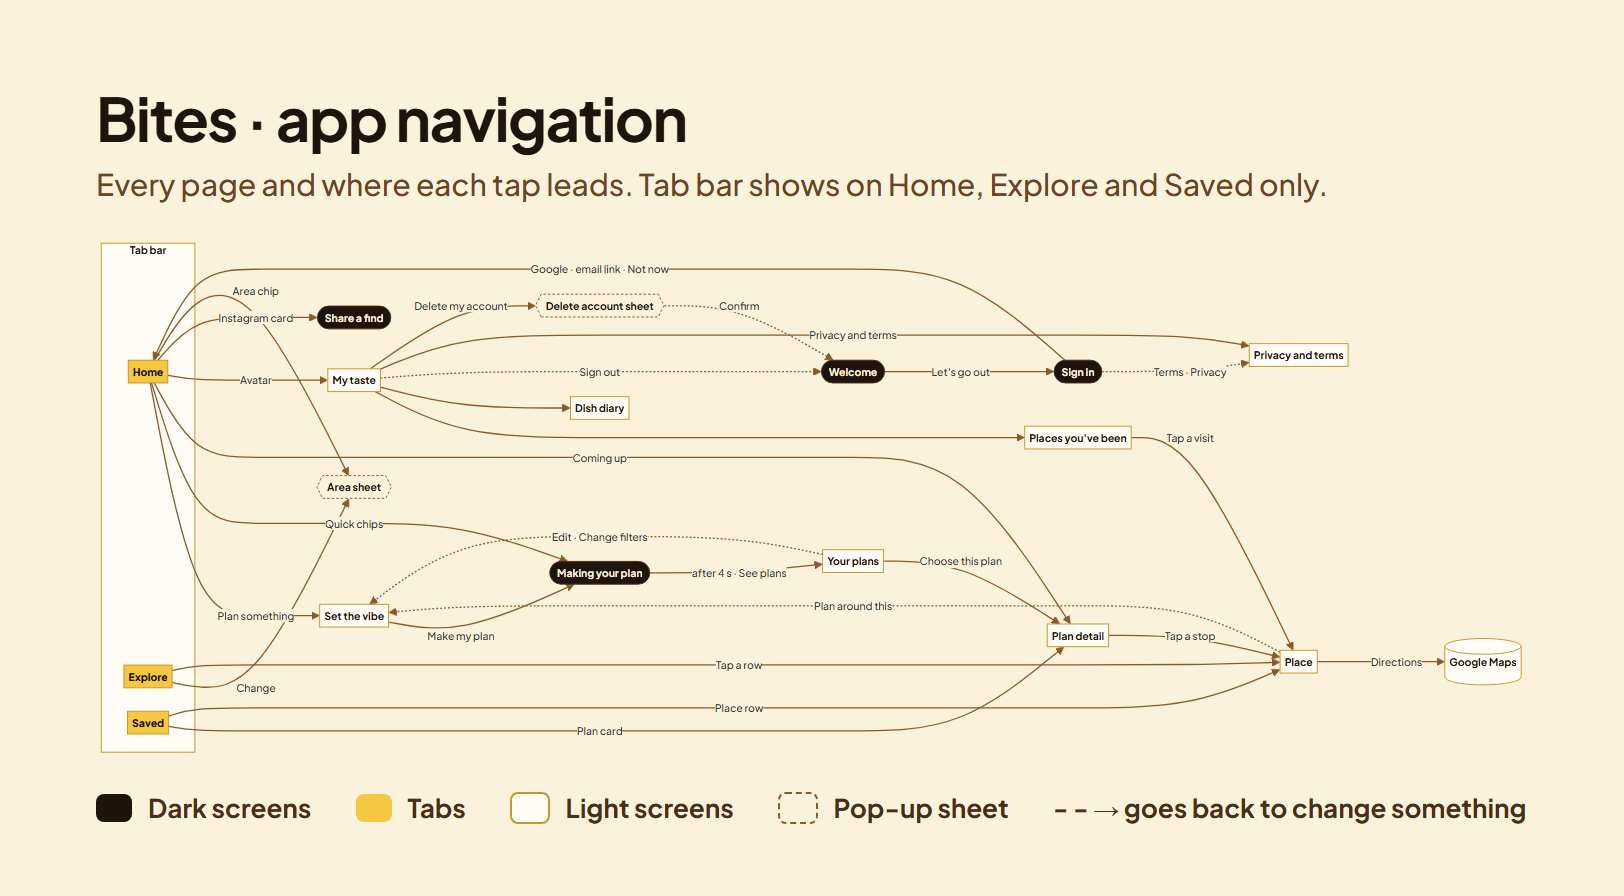
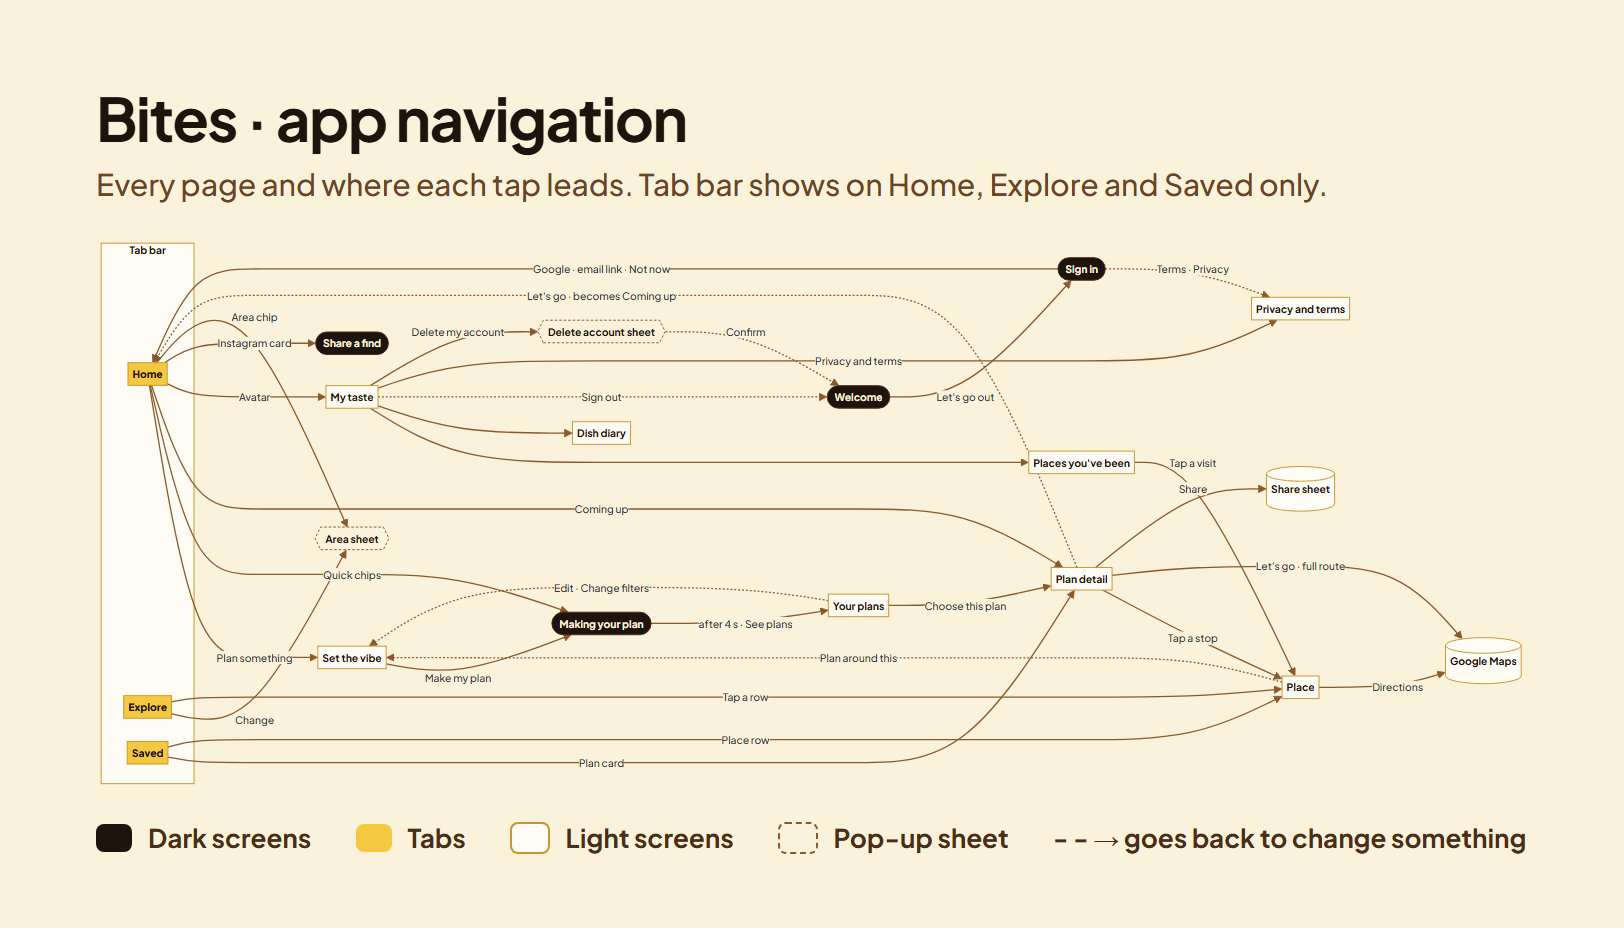
Flowchart and README: Plan detail Let's go (Google Maps route, becomes Coming up) and Share

diff --git a/design/customer-app/navigation-flowchart.html b/design/customer-app/navigation-flowchart.html
@@ -48,6 +48,9 @@ flowchart LR
   T -->|Delete my account| DEL{{Delete account sheet}}:::sheet
   DEL -.->|Confirm| W
   PL -->|Directions| MAPS[(Google Maps)]:::ext
+  D -->|Let's go · full route| MAPS
+  D -.->|Let's go · becomes Coming up| H
+  D -->|Share| SHR[(Share sheet)]:::ext
   classDef ext fill:#eef3e0,stroke:#2e6b3e,color:#1f140c
   classDef default fill:#fffcf5,stroke:#c8962e,stroke-width:1.5px,color:#1f140c,font-weight:700
   classDef dark fill:#1f140c,stroke:#4a2e18,color:#fbf2dc,font-weight:700

diff --git a/design/customer-app/README.md b/design/customer-app/README.md
@@ -35,11 +35,11 @@ Tab bar (Home, Explore, Saved) shows only on those three screens; every other pa
 |---|---|
 | Welcome | Let's go out → Sign in |
 | Sign in | Google / email link / Not now → Home · Terms, Privacy → Privacy and terms |
-| Home | Area chip → Area sheet · Avatar → My taste · Plan something → Set the vibe · Quick chips → Making your plan · Coming up → Plan detail · Instagram card → Share a find |
+| Home | Area chip → Area sheet · Avatar → My taste · Plan something → Set the vibe · Quick chips → Making your plan · Coming up (the plan you last started) → Plan detail · Instagram card → Share a find |
 | Set the vibe | Mood, who's coming, leaving time (Now, 6, 7, 8 pm + clock for any time), total time (1–6 hrs), budget (per person or total), interests → Make my plan |
 | Making your plan | After about 4 s, or See plans → Your plans |
 | Your plans | Only plans within budget and time · Edit / Change filters → Set the vibe · Choose this plan → Plan detail (and saves it) |
-| Plan detail | Save · lock a stop · swap last stop · tap a stop → Place |
+| Plan detail | Save · lock a stop · swap last stop · tap a stop → Place · **Let's go** → full route in Google Maps (area → each stop), plan becomes Coming up, back to Home · **Share** → phone share sheet (or copy) |
 | Explore | Search · Food / Things to do · Change → Area sheet · row → Place |
 | Place | Save · Directions → Google Maps · Plan around this → Set the vibe |
 | Saved | Plans / Places · tap → Plan detail or Place |
